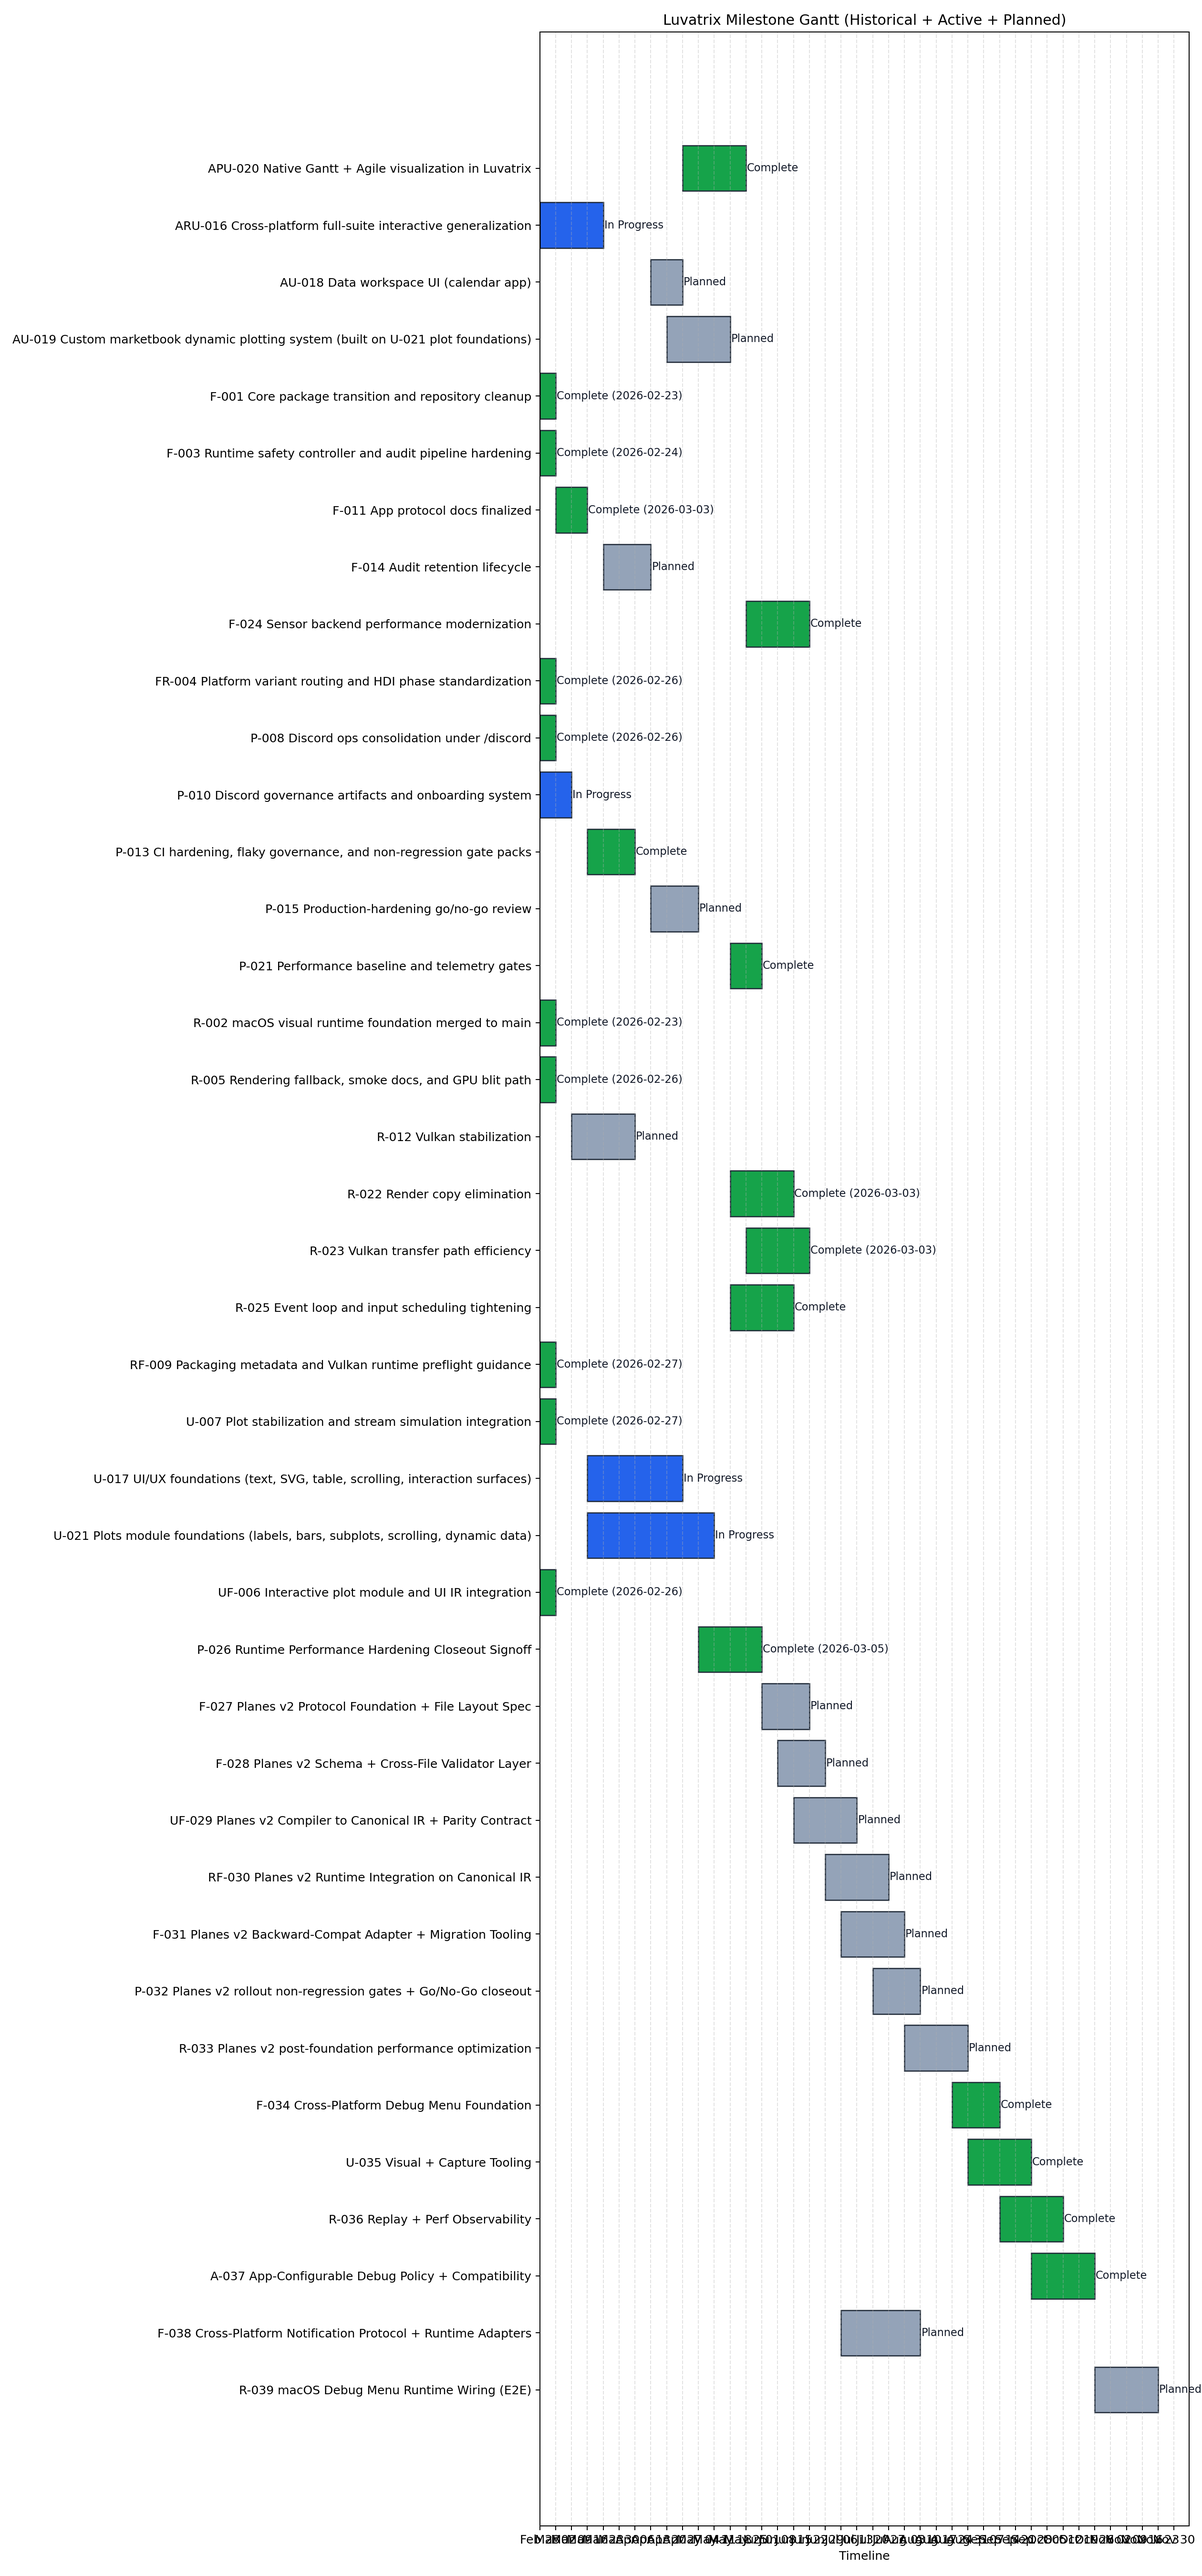
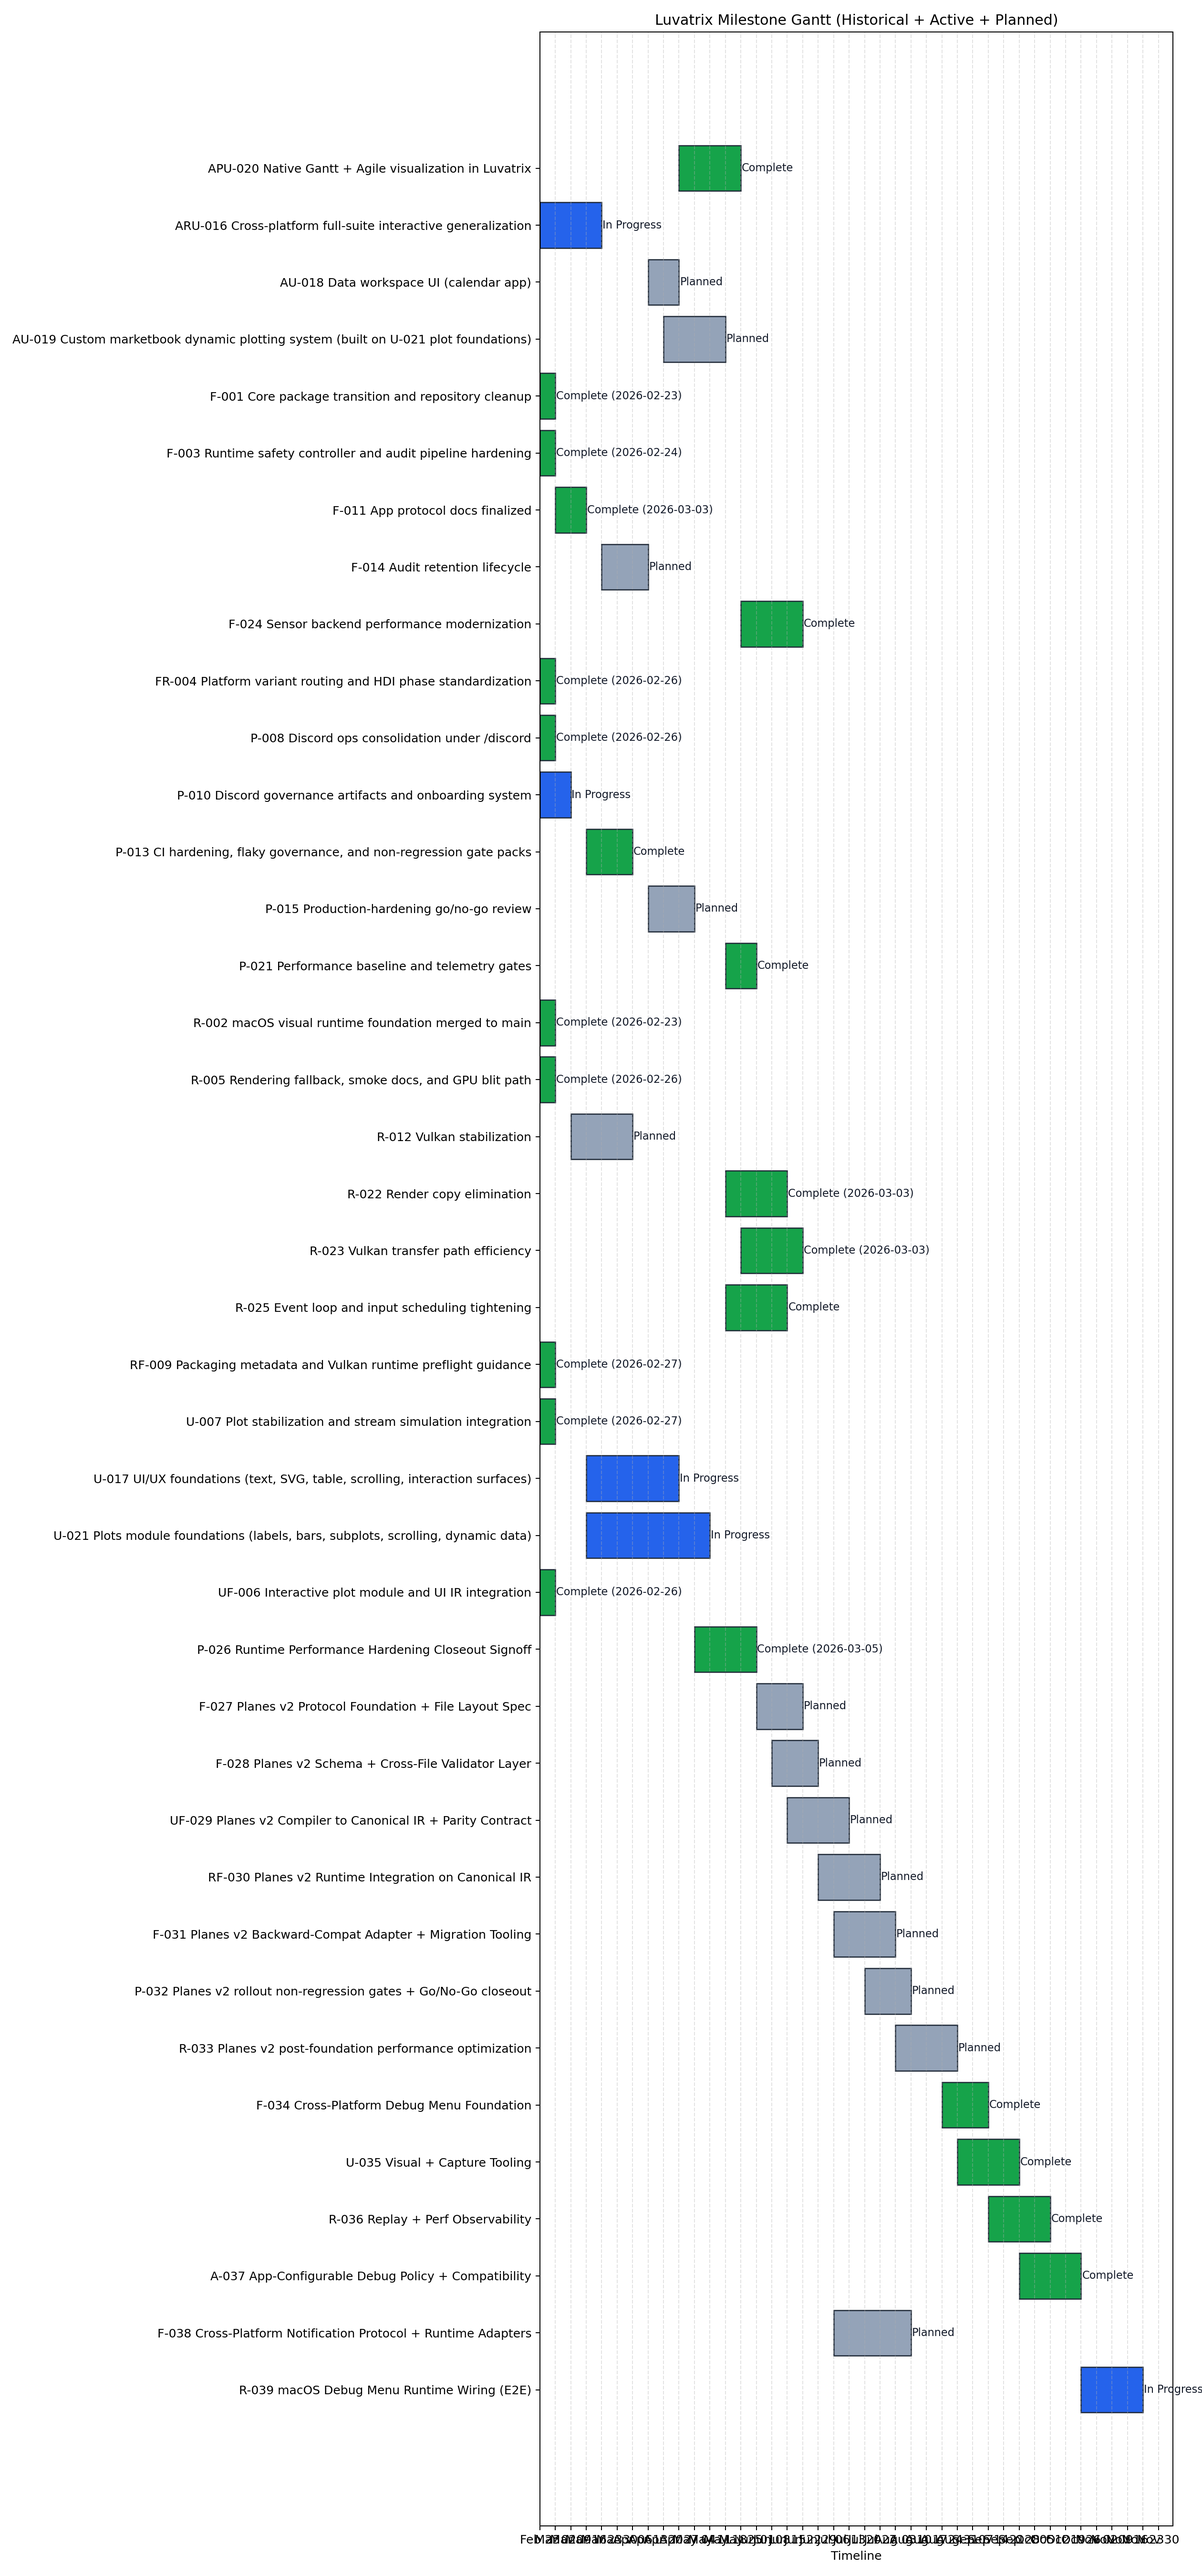
planning: record R-039 no-go lifecycle event

diff --git a/ops/planning/gantt/milestones_gantt.md b/ops/planning/gantt/milestones_gantt.md
@@ -45,7 +45,7 @@ U-035 🖼 Visual + Capture Tooling                                          
 R-036 🎛 Replay + Perf Observability                                                  |                                                                                                                                                                                                           ============================                                          | Complete
 A-037 🧩 App-Configurable Debug Policy + Compatibility                                 |                                                                                                                                                                                                                         ============================                            | Complete
 F-038 🔔 Cross-Platform Notification Protocol + Runtime Adapters                       |                                                                                                                                     ~~~~~~~~~~~~~~~~~~~~~~~~~~~~~~~~~~~                                                                                                         | Planned
-R-039 🍎 macOS Debug Menu Runtime Wiring (E2E)                                         |                                                                                                                                                                                                                                                     ~~~~~~~~~~~~~~~~~~~~~~~~~~~~| Planned
+R-039 🍎 macOS Debug Menu Runtime Wiring (E2E)                                         |                                                                                                                                                                                                                                                     ############################| In Progress
 
 Legend: '=' Complete, '#' In Progress, '~' Planned, '!' At Risk, 'x' Blocked
 ```
@@ -449,11 +449,12 @@ Legend: '=' Complete, '#' In Progress, '~' Planned, '!' At Risk, 'x' Blocked
   - Adapters preserve protocol/runtime modular boundary with deterministic safety.
 
 ### R-039 🍎 macOS Debug Menu Runtime Wiring (E2E)
-- Status: Planned
+- Status: In Progress
 - Target window: Week 36-39
 - Tasks: `T-3290, T-3201, T-3202, T-3203, T-3204, T-3205, T-3206`
 - Lifecycle events:
   - 2026-03-07 active (framework=gateflow_v1) - milestone created from architect packet
+  - 2026-03-07 no-go (framework=gateflow_v1) - live macOS run-app verification blocked in current environment (AppKit/PyObjC unavailable)
 - Success criteria:
   - Clicking default macOS top-menu actions never crashes.
   - Debug menu actions are functional in a live example app session.
